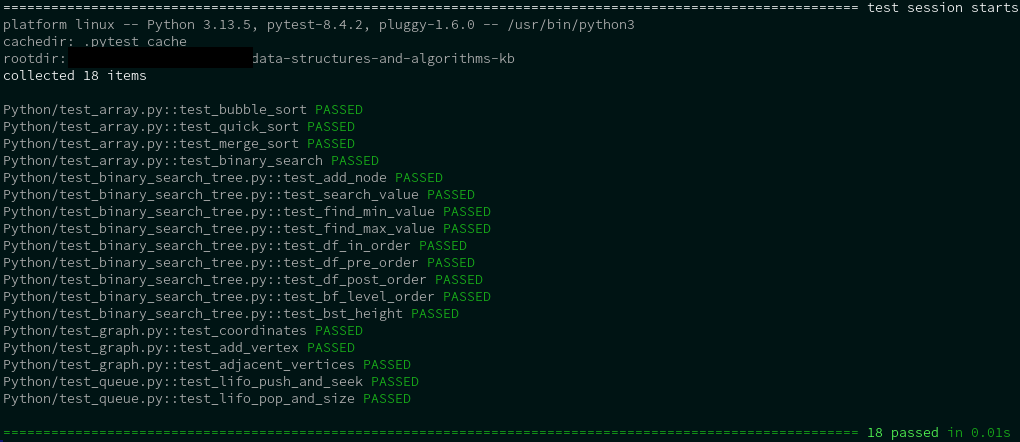
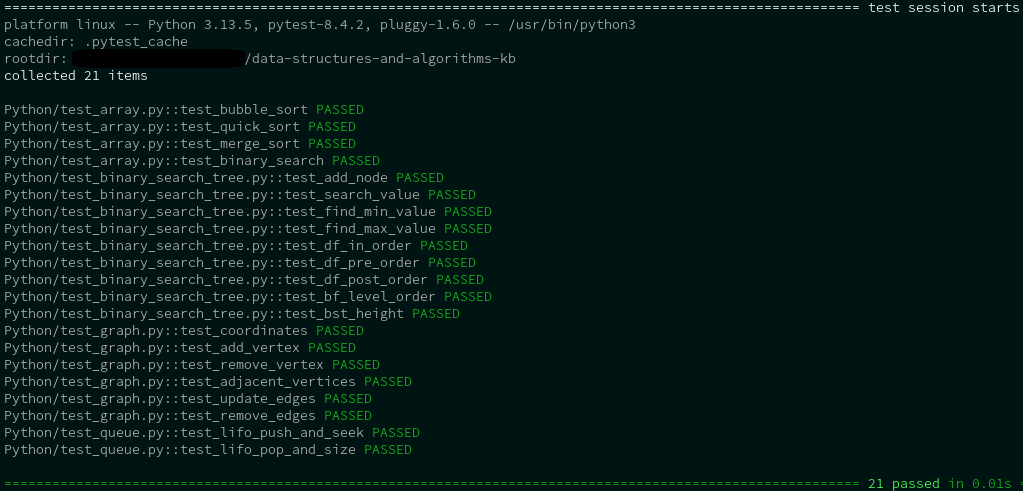
improve: Graph DS

Changed region(s): [[0.0, 0.2059, 0.4863, 0.9412], [0.0, 0.0, 1.0, 0.1765], [0.0, 0.9706, 1.0, 1.0]]

diff --git a/Python/test_graph.py b/Python/test_graph.py
@@ -21,6 +21,37 @@ class Graph:
             self.adjacency_list.append(vertex.edges)
             self.coordinates[vertex.id] = vertex.coordinate
 
+    def remove_vertex(self, vertex_id: Union[str, int]) -> None:
+        if vertex_id in self.vertices.keys():
+            adjacency_list_index = self.vertices[vertex_id]
+            del self.adjacency_list[adjacency_list_index]
+            del self.coordinates[vertex_id]
+            del self.vertices[vertex_id]
+            for v_id, v_index in self.vertices.items():
+                if v_index > adjacency_list_index:
+                    self.vertices[v_id] = v_index - 1
+            for edges in self.adjacency_list:
+                edges[:] = [edge for edge in edges if edge[0] != vertex_id]
+
+    def update_edges(self, vertex_id: Union[str, int], updated_edges: List[tuple[Union[str, int], float]]) -> None:
+        if vertex_id in self.vertices.keys():
+            index = self.vertices[vertex_id]
+            current_edges_id = [e[0] for e in self.adjacency_list[index]]
+            for i, edge in enumerate(updated_edges):
+                if edge[0] not in current_edges_id:
+                    self.adjacency_list[index].append(edge)
+                else:
+                    for j, existing_edge in enumerate(self.adjacency_list[index]):
+                        if updated_edges[i][0] == existing_edge[0] and updated_edges[i][1] != existing_edge[1]:
+                            self.adjacency_list[index][j] = updated_edges[i]
+
+    def remove_edges(self, vertex_id: Union[str, int], edge_vertex_id: List[Union[str, int]]) -> None:
+        if vertex_id in self.vertices.keys():
+            index = self.vertices[vertex_id]
+            self.adjacency_list[index] = [
+                edge for edge in self.adjacency_list[index] if edge[0] not in edge_vertex_id
+            ]
+
     def adjacent_vertices(self, vertex: Union[str, int]) -> List[tuple[Union[str, int], float]]:
         if vertex in self.vertices.keys():
             return self.adjacency_list[
@@ -60,9 +91,49 @@ def test_add_vertex() -> None:
     assert graph.vertices == {'X': 0, 'Y': 1, 'BB': 2, 'AA': 3}
     assert graph.adjacency_list == [[('Y', 2)], [('X', 2), ('Z', 4)], [], []]
 
+def test_remove_vertex(sample_weighted_dag: Graph) -> None:
+    assert sample_weighted_dag.vertices == {'A': 0, 'B': 1, 'C': 2, 'D': 3}
+    assert sample_weighted_dag.adjacency_list == [[('B', 1), ('C', 1.5)], [('A', 1), ('D', 3)], [('A', 1.5)], [('B', 3)]]    
+    sample_weighted_dag.add_vertex(Vertex('X', [('Y', 2)]))
+    sample_weighted_dag.remove_vertex('C')
+    assert sample_weighted_dag.vertices == {'A': 0, 'B': 1, 'D': 2, 'X': 3}
+    assert sample_weighted_dag.adjacency_list == [[('B', 1)], [('A', 1), ('D', 3)], [('B', 3)], [('Y', 2)]]
+    sample_weighted_dag.remove_vertex('A')
+    assert sample_weighted_dag.vertices == {'B': 0, 'D': 1, 'X': 2}
+    assert sample_weighted_dag.adjacency_list == [[('D', 3)], [('B', 3)], [('Y', 2)]]
+    sample_weighted_dag.remove_vertex('D')
+    assert sample_weighted_dag.vertices == {'B': 0, 'X': 1}
+    assert sample_weighted_dag.adjacency_list == [[], [('Y', 2)]]
+    sample_weighted_dag.add_vertex(Vertex('Y', [('X', 2.8)]))
+    sample_weighted_dag.remove_vertex('B')
+    assert sample_weighted_dag.vertices == {'X': 0, 'Y': 1} 
+    assert sample_weighted_dag.adjacency_list == [[('Y', 2)], [('X', 2.8)]]
+
 def test_adjacent_vertices(sample_weighted_dag: Graph) -> None:
     assert sample_weighted_dag.adjacent_vertices('A') == [('B', 1), ('C', 1.5)]
     assert sample_weighted_dag.adjacent_vertices('B') == [('A', 1), ('D', 3)]
     assert sample_weighted_dag.adjacent_vertices('C') == [('A', 1.5)]
     assert sample_weighted_dag.adjacent_vertices('D') == [('B', 3)]
     assert sample_weighted_dag.adjacent_vertices('E') == None
+
+def test_update_edges(sample_weighted_dag: Graph) -> None:
+    sample_weighted_dag.update_edges('A', [('B', 2), ('C', 1.5)])
+    assert sample_weighted_dag.adjacent_vertices('A') == [('B', 2), ('C', 1.5)]
+    sample_weighted_dag.update_edges('B', [('A', 1), ('D', 4), ('C', 5)])
+    assert sample_weighted_dag.adjacent_vertices('B') == [('A', 1), ('D', 4), ('C', 5)]
+    sample_weighted_dag.update_edges('C', [('A', 1.5), ('B', 3.5)])
+    assert sample_weighted_dag.adjacent_vertices('C') == [('A', 1.5), ('B', 3.5)]
+
+def test_remove_edges(sample_weighted_dag: Graph) -> None:
+    sample_weighted_dag.remove_edges('A', ['B'])
+    assert sample_weighted_dag.adjacent_vertices('A') == [('C', 1.5)]
+    sample_weighted_dag.remove_edges('B', ['A'])
+    assert sample_weighted_dag.adjacent_vertices('B') == [('D', 3)]
+    sample_weighted_dag.remove_edges('C', ['A'])
+    assert sample_weighted_dag.adjacent_vertices('C') == []
+    sample_weighted_dag.add_vertex(Vertex('Z', [('X', 7), ('Y', 2), ('C', 5)]))
+    sample_weighted_dag.add_vertex(Vertex('X', [('Y', 3)]))
+    sample_weighted_dag.add_vertex(Vertex('Y', [('X', 4)]))
+    assert sample_weighted_dag.adjacent_vertices('Z') == [('X', 7), ('Y', 2), ('C', 5)]
+    sample_weighted_dag.remove_edges('Z', ['X', 'C'])
+    assert sample_weighted_dag.adjacent_vertices('Z') == [('Y', 2)]

diff --git a/Python/test_binary_search_tree.py b/Python/test_binary_search_tree.py
@@ -98,31 +98,31 @@ class BinarySearchTree():
 
     def df_pre_order(self) -> List[int]:
         pre_order = []
-        def _df_pre_order(root: TreeNode):
-            if root:
-                pre_order.append(root.value)
-                _df_pre_order(root.left)
-                _df_pre_order(root.right)
+        def _df_pre_order(node: TreeNode):
+            if node:
+                pre_order.append(node.value)
+                _df_pre_order(node.left)
+                _df_pre_order(node.right)
         _df_pre_order(self.root)
         return pre_order
 
     def df_in_order(self) -> List[int]:
         in_order = []
-        def _df_in_order(root: TreeNode):
-            if root:
-                _df_in_order(root.left)
-                in_order.append(root.value)
-                _df_in_order(root.right)
+        def _df_in_order(node: TreeNode):
+            if node:
+                _df_in_order(node.left)
+                in_order.append(node.value)
+                _df_in_order(node.right)
         _df_in_order(self.root)
         return in_order
 
     def df_post_order(self) -> List[int]:
         post_order = []
-        def _df_post_order(root: TreeNode):
-            if root:
-                _df_post_order(root.left)
-                _df_post_order(root.right)
-                post_order.append(root.value)
+        def _df_post_order(node: TreeNode):
+            if node:
+                _df_post_order(node.left)
+                _df_post_order(node.right)
+                post_order.append(node.value)
         _df_post_order(self.root)
         return post_order
 
@@ -141,19 +141,20 @@ def sample_bst() -> BinarySearchTree:
 def bst_from_list() -> BinarySearchTree:
     sorted_values = sorted([8, 3, 10, 1, 6, 14, 4, 7, 13])
 
-    def insert(value: int, left: List[int], right: List[int]) -> TreeNode:
+    def _insert(value: int, left: List[int], right: List[int]) -> TreeNode:
         node = TreeNode(value)
         if left:
             mid = len(left) // 2
-            node.left = insert(left[mid], left[:mid], left[mid+1:])
+            node.left = _insert(left[mid], left[:mid], left[mid+1:])
         if right:
             mid = len(right) // 2
-            node.right = insert(right[mid], right[:mid], right[mid+1:])
+            node.right = _insert(right[mid], right[:mid], right[mid+1:])
         return node
 
     mid = len(sorted_values) // 2
-    root = insert(sorted_values[mid], sorted_values[:mid], sorted_values[mid+1:])
-    return BinarySearchTree(root)
+    return BinarySearchTree(
+        _insert(sorted_values[mid], sorted_values[:mid], sorted_values[mid+1:])
+    )
 
 
 def test_add_node(sample_bst: BinarySearchTree, bst_from_list: BinarySearchTree):

diff --git a/Python/test_queue.py b/Python/test_queue.py
@@ -42,10 +42,12 @@ def sample_stack() -> LIFOQueue:
     return stack
 
 def test_lifo_push_and_seek(sample_stack: LIFOQueue) -> None:
+    assert sample_stack.seek() == 3
     sample_stack.push(4)
     assert sample_stack.seek() == 4
 
 def test_lifo_pop_and_size(sample_stack: LIFOQueue) -> None:
+    assert sample_stack.stack_size() == 3
     assert sample_stack.pop() == 3
     assert sample_stack.stack_size() == 2
     assert sample_stack.pop() == 2
